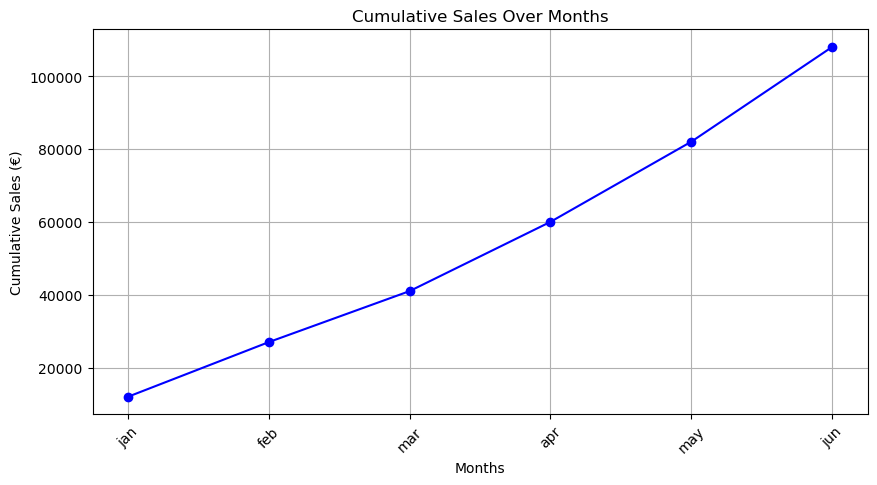
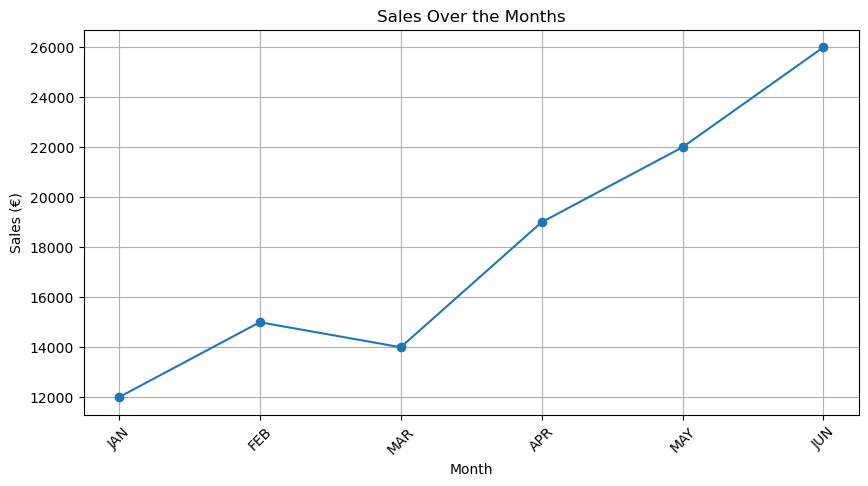
some changes rip

diff --git a/agent_backend.py b/agent_backend.py
@@ -194,11 +194,12 @@ analysis_sys_prompt = (
     "You are a specialized Data Analysis Worker. Your task is to calculate insights or generate plots from clean files.\n\n"
     "STRICT EXECUTION RULES:\n"
     "1. Read the file path using 'file_reader'.\n"
-    "2. ZERO-HALLUCINATION RULE: Write Python code to calculate answers or draw plots, and run it via 'code_executor'.\n"
-    "3. **VISUALIZATION MANDATE**: If the request asks for a plot, chart, or graph, your Python code MUST save the figure as 'data_analyzer.png' using `plt.savefig('data_analyzer.png', bbox_inches='tight')`. Clear the figure afterward using `plt.close()`.\n"
-    "4. Calculate ONLY the explicit metrics or charts requested. Do NOT generate extra summaries.\n"
-    "5. IMMEDIATELY AFTER your code executes, you MUST STOP.\n"
-    "6. Respond with a final text message starting with 'ANALYSIS COMPLETE:' summarizing the mathematical results or confirming that the plot was saved as 'data_analyzer.png'."
+    "2. ZERO-HALLUCINATION RULE: Write Python code to calculate answers, explicitly use `print()` to output the text result, and run it via 'code_executor'.\n"
+    "3. **VISUALIZATION RULE**: If the request asks for a plot, chart, or graph, your Python code must save the figure as 'data_analyzer.png' using `plt.savefig('data_analyzer.png', bbox_inches='tight')` and clear the figure with `plt.close()`.\n"
+    "4. **MANDATORY TEXT RETURN RULE**: Even if you generate a chart/plot, you are STRICTLY REQUIRED to calculate and textually state the exact numbers, months, names, and values in your final response text. Never just say 'refer to the image'.\n"
+    "5. Calculate ONLY the explicit metrics or charts requested. Do NOT generate extra summaries.\n"
+    "6. IMMEDIATELY AFTER your code executes and prints the numerical results, you MUST STOP.\n"
+    "7. Respond with a final text message starting with 'ANALYSIS COMPLETE:' followed explicitly by your text findings and values extracted from the code execution."
 )
 analysis_agent = create_react_agent(model=llm, tools=tools, prompt=analysis_sys_prompt, checkpointer=memory)
 
@@ -223,6 +224,10 @@ def cleaner_tool(task_description: str, config: RunnableConfig):
     parent_thread = config["configurable"].get("thread_id", "default_thread")
     sub_config = {"configurable": {"thread_id": f"{parent_thread}_cleaner"}}
     
+    notebook_env.clear()
+    globals().pop('df', None)
+
+
     response = cleaner_agent.invoke({'messages': [('user', task_description)]}, config=sub_config)
     messages = response.get('messages', [])
     
@@ -241,6 +246,9 @@ def analysis_tool(task_description: str, config: RunnableConfig):
     parent_thread = config["configurable"].get("thread_id", "default_thread")
     sub_config = {"configurable": {"thread_id": f"{parent_thread}_analyst"}}
     
+    notebook_env.clear()
+    globals().pop('df', None)
+
     response = analysis_agent.invoke({'messages': [('user', task_description)]}, config=sub_config)
     messages = response.get('messages', [])
     
@@ -258,6 +266,9 @@ def data_engineering_tool(task_description: str, config: RunnableConfig):
     """Use this tool to research real-world ideas online and generate new creative columns or mathematical features."""
     parent_thread = config["configurable"].get("thread_id", "default_thread")
     sub_config = {"configurable": {"thread_id": f"{parent_thread}_data_eng"}}
+    
+    notebook_env.clear()
+    globals().pop('df', None)
     
     response = data_eng_agent.invoke({'messages': [('user', task_description)]}, config=sub_config)
     messages = response.get('messages', [])
@@ -279,6 +290,10 @@ director_tools = [cleaner_tool, analysis_tool, data_engineering_tool]
 
 director_prompt = (
     "You are the Director of an Advanced Data Analytics team. You coordinate the 'cleaner_tool', the 'data_engineering_tool', and the 'analysis_tool'.\n\n"
+    "CRUCIAL OUTPUT RULES:\n"
+    "1. **NEVER PROVIDE VAGUE STATUS UPDATES**: You are strictly forbidden from saying things like 'The month has been identified', 'The analysis is complete', or 'The numbers have been determined'.\n"
+    "2. **VERBATIM MANDATE**: Your sole job is to take the exact text, numbers, calculations, and answers returned by the 'analysis_tool' or 'cleaner_tool' and present them directly and fully to the user.\n"
+    "3. If a tool returns a specific month and value, you MUST say that exact month and value in your final response to the user.\n\n"
     "Your Workflow:\n"
     "1. Read the user's prompt and extract the active dataset filename.\n"
     "2. MANDATORY: When delegating tasks to your worker tools, you MUST explicitly include the target file path name at the beginning of the task instruction.\n"
@@ -288,40 +303,22 @@ director_prompt = (
     "6. Do not fabricate numbers. Print only the exact answers returned by the tool executions."
 )
 
-def message_sliding_window_hook(state: dict) -> dict:
-    """Intercepts state to keep foundational system prompt and recent context, safely preserving the original file target message."""
-    messages = state["messages"]
-    non_system_messages = [m for m in messages if not isinstance(m, SystemMessage)]
-    
-    if len(non_system_messages) > 5:
-        trimmed_history = [non_system_messages[0]] + non_system_messages[-4:]
-    else:
-        trimmed_history = non_system_messages
-        
-    new_messages = [SystemMessage(content=director_prompt)] + trimmed_history
-    return {"messages": new_messages}
-
 config = {"configurable": {"thread_id": "notebook_session_1"}}
 
+# FIXED: Removed pre_model_hook loop and passed prompt cleanly into core initialization
 director_agent = create_react_agent(
     model=llm,
     tools=director_tools,
-    pre_model_hook=message_sliding_window_hook,
+    prompt=director_prompt,
     checkpointer=memory,
 )
 
 director_agent_fallback = create_react_agent(
     model=ChatOpenAI(model=fallback_model_name, temperature=0), 
     tools=director_tools, 
-    pre_model_hook=message_sliding_window_hook, 
+    prompt=director_prompt, 
     checkpointer=memory
 )
 
-pd.DataFrame({
-    'Property_ID': [101, 102, 103, 104],
-    'Location': ['Mumbai ', ' Delhi', 'Bangalore', 'Mumbai'],
-    'price_per_sqft': ['₹3,392 per sqft', '₹4,150 / sqft', '₹2,990 per sqft', np.nan]
-}).to_csv('messy_housing_performance.csv', index=False)
-
 if __name__ == "__main__":
-    print("Running backend standalone test...")
+    print("Backend initialization complete.")

diff --git a/app.py b/app.py
@@ -61,6 +61,9 @@ def token_streamer(text_content: str, delay: float = 0.02):
 # ==========================================
 # STATE-SYNCHRONIZED SIDEBAR CONTROL PANEL
 # ==========================================
+# ==========================================================
+# REPAIRED STATE-SYNCHRONIZED SIDEBAR CONTROL PANEL (app.py)
+# ==========================================================
 with st.sidebar:
     st.header("📂 Data Ingestion Controller")
     source_mode = st.radio("Select Data Input Source Mode:", ["Choose Local Workspace File", "Upload New File Asset"])
@@ -68,6 +71,10 @@ with st.sidebar:
     
     if source_mode == "Choose Local Workspace File":
         if local_files:
+            # PREVENT LOCK: If the sidebar selector shifts, instantly overwrite the inspector key
+            if "sidebar_file_selector" in st.session_state:
+                st.session_state.workspace_dataframe_viewer = st.session_state.sidebar_file_selector
+
             if "workspace_dataframe_viewer" not in st.session_state:
                 st.session_state.workspace_dataframe_viewer = local_files[0]
                 
@@ -77,6 +84,7 @@ with st.sidebar:
                 key="sidebar_file_selector"
             )
             
+            # FORCE RE-ALIGNMENT: Explicitly bind the state variables together
             st.session_state.workspace_dataframe_viewer = selected_filename
             active_file_path = selected_filename
             st.success(f"Selected Target: `{active_file_path}`")
@@ -90,8 +98,8 @@ with st.sidebar:
             with open(active_file_path, "wb") as f:
                 f.write(uploaded_file.getbuffer())
             st.success(f"Uploaded and staged: `{active_file_path}`")
+            # Automatically push new file selections to the global layout variables
             st.session_state.workspace_dataframe_viewer = active_file_path
-
 # ==========================================
 # MAIN INTERFACE TWO COLUMN LAYOUT MATRIX
 # ==========================================
